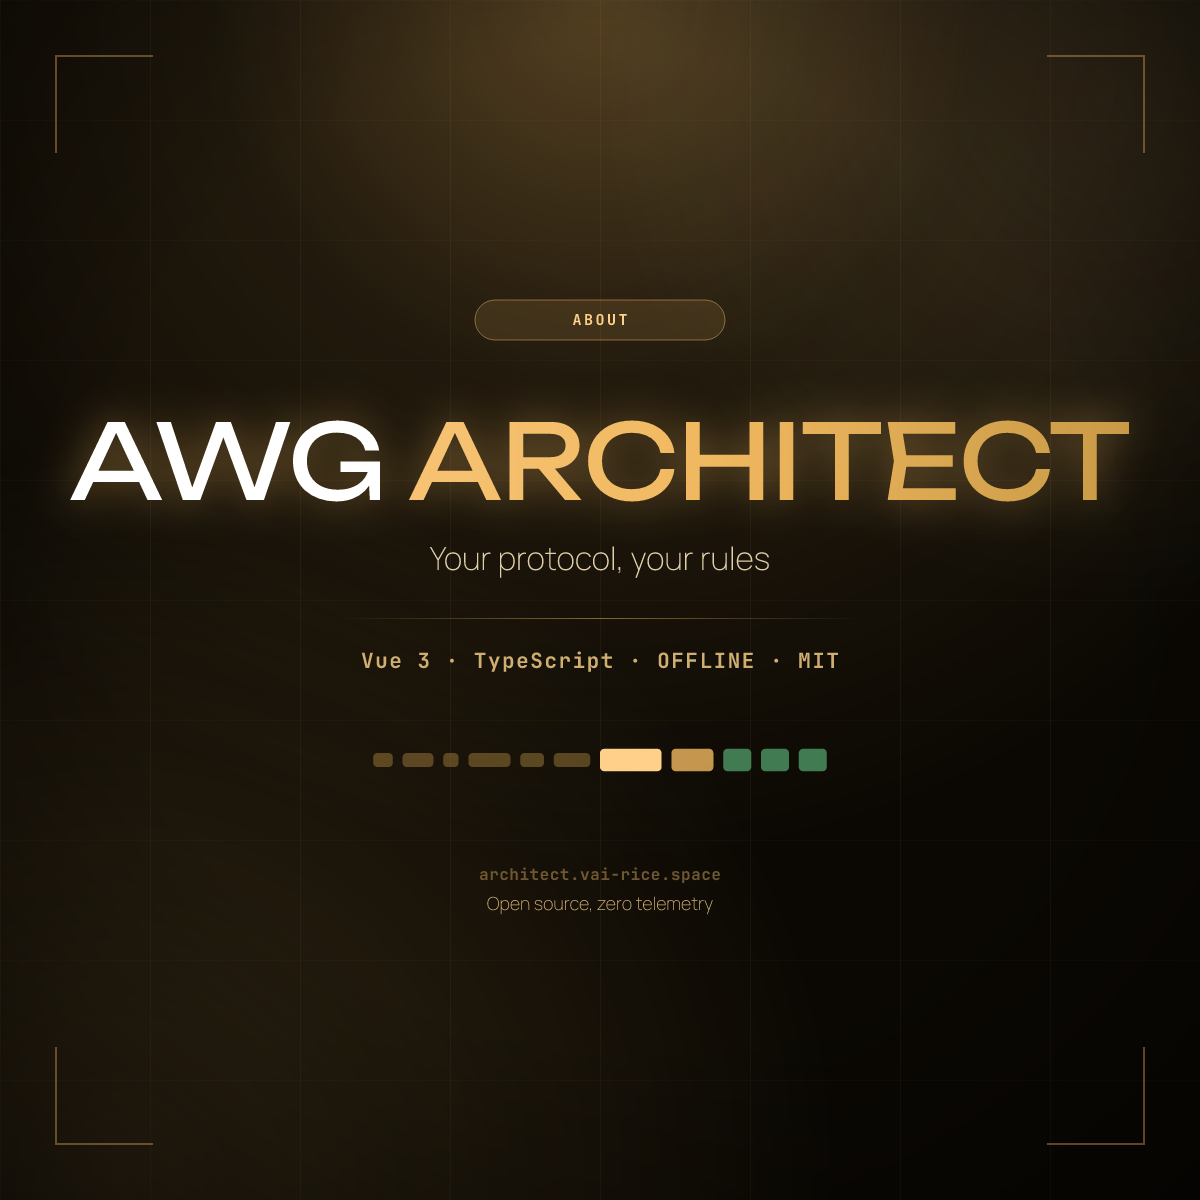
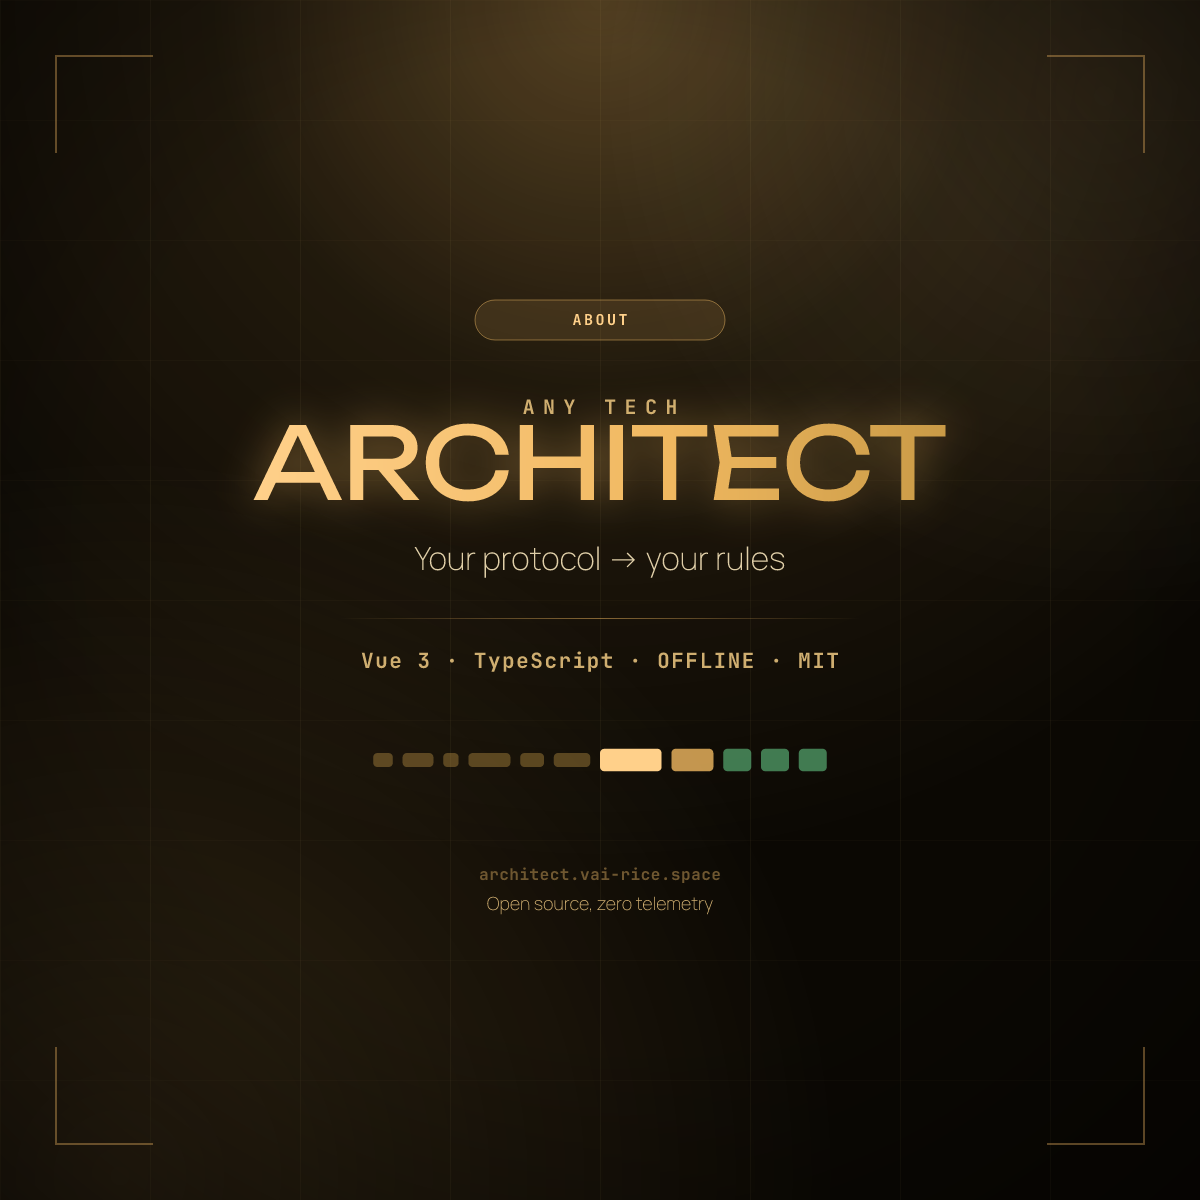
feat(og): a card per engine, and a repo preview that is not a third copy
The landing, AmneziaWG and XRay shared one image, which was fine when
there was one generator. Each now has its own, and the two-part title
gives way to a lockup where it should: 'Any Tech' is a qualifier and
ARCHITECT is the name, and setting both at one size made the product
sound as though it were called all three words.

The GitHub preview stops being a link card. Those are centred stacks
meant to be read in a feed in half a second; this one is looked at next
to a README, so it is a spread — the name on the left, and on the right
the two engines drawn rather than listed: a junk train for AmneziaWG, a
donor's name with your traffic inside it for XRay. It is the only image
carrying both accents, which is the thing this version changed.

About moves to the lockup too, its page having been rewritten. FAQ, the
simulator and merge-keys keep the old wordmark until their pages catch
up.

Changed region(s): [[0.0617, 0.3392, 0.9558, 0.4317], [0.3392, 0.4625, 0.6475, 0.4933]]

diff --git a/src/i18n/seo.ts b/src/i18n/seo.ts
@@ -60,7 +60,7 @@ export const ROUTE_SEO: SeoTable = {
       ogTitle: "AmneziaWG Architect — генератор конфигураций",
       ogDescription:
         "Обфускация AmneziaWG 1.0–3.0: junk-пакеты, магические заголовки, профили мимикрии QUIC/TLS/DTLS/SIP и защита заголовков ChaCha20.",
-      ogImage: "og-image.png",
+      ogImage: "og-amneziawg.png",
       keywords:
         "AmneziaWG, AmneziaWG 3.0, обход блокировок, DPI, WireGuard, обфускация, генератор конфигов, VPN, Jc, Jmin, Jmax, HeaderProtectionKey",
     },
@@ -71,30 +71,30 @@ export const ROUTE_SEO: SeoTable = {
       ogTitle: "AmneziaWG Architect — config generator",
       ogDescription:
         "AmneziaWG 1.0–3.0 obfuscation: junk packets, magic headers, QUIC/TLS/DTLS/SIP mimicry profiles and ChaCha20 header protection.",
-      ogImage: "og-image-en.png",
+      ogImage: "og-amneziawg-en.png",
       keywords:
         "AmneziaWG, AmneziaWG 3.0, DPI bypass, WireGuard, obfuscation, config generator, VPN, censorship circumvention, HeaderProtectionKey",
     },
   },
   xray: {
     ru: {
-      title: "XRay / REALITY — Any Tech ARCHITECT",
+      title: "XRay ARCHITECT — генератор конфигураций XRay / REALITY",
       description:
         "Движок XRay/REALITY: ключи X25519 и shortIds, ML-DSA-65, DSL шифрования VLESS, транспорты XHTTP, отпечатки браузеров и FinalMask. Проверен против выпущенных ядер Xray. Интерфейс собирается.",
       ogTitle: "XRay / REALITY — в работе",
       ogDescription:
         "Движок написан и покрыт тестами против выпущенных ядер. Интерфейс к нему ещё собирается — здесь видно, что уже готово, а чего пока нет.",
-      ogImage: "og-image.png",
+      ogImage: "og-xray.png",
       keywords: "XRay, REALITY, VLESS, XHTTP, ML-DSA-65, fingerprint, обход блокировок",
     },
     en: {
-      title: "XRay / REALITY — Any Tech ARCHITECT",
+      title: "XRay ARCHITECT — XRay / REALITY config generator",
       description:
         "The XRay/REALITY engine: X25519 keys and shortIds, ML-DSA-65, the VLESS encryption DSL, XHTTP transports, browser fingerprints and FinalMask. Tested against released Xray cores. The interface is being built.",
       ogTitle: "XRay / REALITY — in progress",
       ogDescription:
         "The engine is written and tested against released cores. The interface to it is still being built; this page states what is done and what is not.",
-      ogImage: "og-image-en.png",
+      ogImage: "og-xray-en.png",
       keywords: "XRay, REALITY, VLESS, XHTTP, ML-DSA-65, fingerprint, censorship circumvention",
     },
   },

diff --git a/README.md b/README.md
@@ -1,6 +1,6 @@
 <div align="center">
 
-<img src=".github/assets/github-preview.png" alt="AmneziaWG Architect" width="100%">
+<img src=".github/assets/github-preview.png" alt="Any Tech Architect" width="100%">
 
 **Русский** · [English](README.en.md)
 
